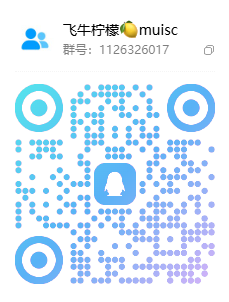
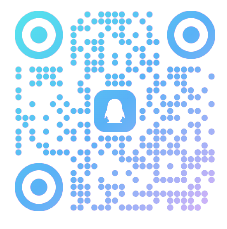
chore: 更新群二维码并缩小「安装到桌面」按钮
关于页 PWA 安装按钮改为随内容宽度；同步最新 QQ 群二维码图。

diff --git a/src/views/About.vue b/src/views/About.vue
@@ -141,7 +141,7 @@
         <template v-else>
           <button
             v-if="pwa.canInstall"
-            class="btn-primary btn-sm"
+            class="btn-primary btn-sm pwa-install-btn"
             type="button"
             :disabled="pwaInstalling"
             @click="installPwa"
@@ -1066,6 +1066,16 @@ function formatDate(iso) {
 
 .pwa-card {
   padding: 14px 18px;
+}
+
+.pwa-install-btn {
+  align-self: flex-start;
+  width: auto;
+  min-width: 0;
+  max-width: 100%;
+  padding: 8px 16px;
+  font-size: 13px;
+  border-radius: var(--radius-pill, 999px);
 }
 
 .pwa-desc {
